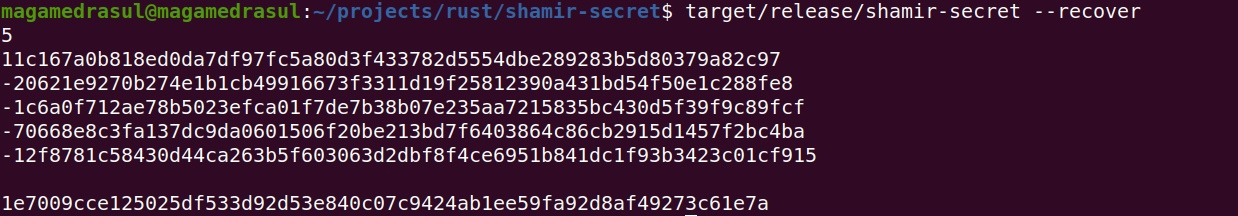
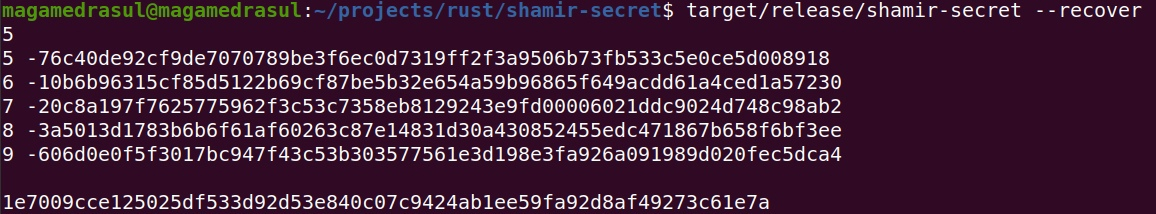
readme

diff --git a/src/recover.rs b/src/recover.rs
@@ -1,7 +1,6 @@
 use std::io;
 use num_bigint::{BigInt, ToBigInt};
 use std::ops::{Mul, Div};
-use std::convert::TryInto;
 
 mod fraction;
 
@@ -14,13 +13,30 @@ pub fn recover() {
     let t: usize = t.trim().parse().expect("Non number value (T)");
 
     let mut key_parts: Vec<BigInt> = Vec::new();
+    let mut x: Vec<i128> = Vec::new();
 
     for _ in 0..t {
         // Parsing key_parts
-        let mut key_part = String::new();
+        let mut s = String::new();
         io::stdin()
-            .read_line(&mut key_part)
+            .read_line(&mut s)
             .expect("Failed to read key");
+
+        let mut s = s.split_whitespace();
+
+        let temp = match s.next() {
+            Some(val) => val,
+            _ => panic!()
+        };
+
+        let temp: i128 = temp.parse().unwrap();
+        x.push(temp);
+
+        let key_part = match s.next() {
+            Some(val) => val,
+            _ => panic!()
+        };
+
         let key_part = key_part.trim().trim_start_matches("0x");
         let key_part = BigInt::parse_bytes(key_part.as_bytes(), 16).expect("Failed to convert");
 
@@ -38,12 +54,10 @@ pub fn recover() {
                 continue
             }
 
-            let m_i128: i128 = (m + 1).try_into().unwrap(); 
-            let j_i128: i128 = (j + 1).try_into().unwrap();
-
-            num *= -m_i128;
-            den *= j_i128 - m_i128;
+            num *= -x[m];
+            den *= x[j] - x[m];
         }
+
         let mut num_big = num.to_bigint().unwrap();
         let den_big = den.to_bigint().unwrap();
 

diff --git a/src/split.rs b/src/split.rs
@@ -42,6 +42,7 @@ pub fn split() {
 
     for i in 1..=n {
         let mut secret = key.clone();
+        print!("{} ", i);
         for j in 0..coefs.len() {
             let mut temp_big = coefs[j].clone();
             let mut i_big = i.to_bigint().unwrap();
